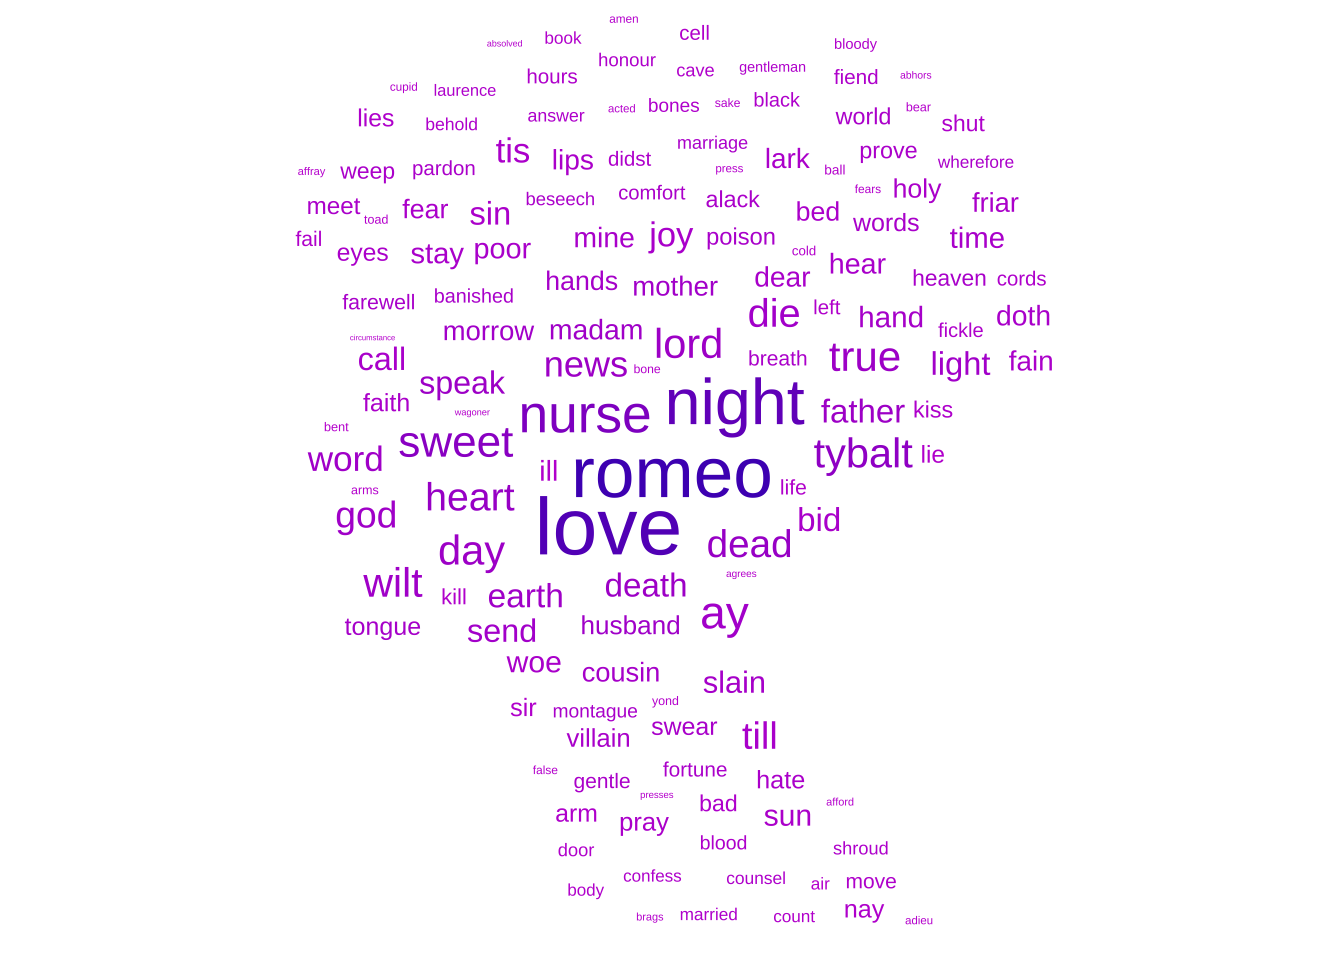
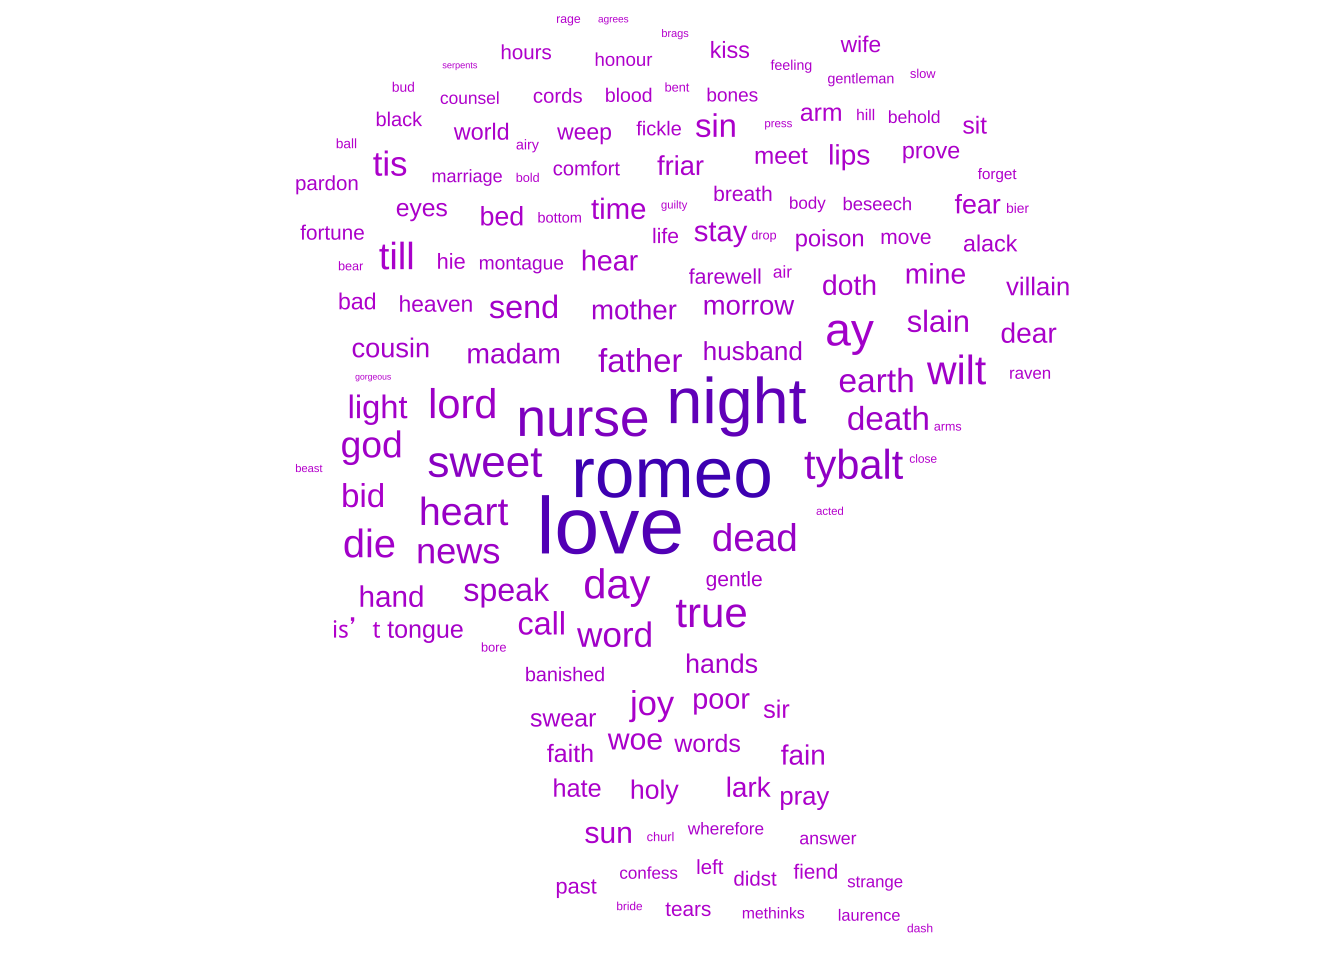
shakespeare

Changed region(s): [[0.2188, 0.0, 0.8125, 0.9688]]

diff --git a/docs/tidytuesday/shakespeare_words.html b/docs/tidytuesday/shakespeare_words.html
@@ -184,8 +184,8 @@ pre > code.sourceCode > span > a:first-child::before { text-decoration: underlin
     </ul>
   </li>
   <li class="nav-item">
-    <a class="nav-link" href="../tidytuesday/tidytuesday.html"> 
-<span class="menu-text"><strong>Tidytuesday Adventures</strong></span></a>
+    <a class="nav-link" href="../dataviz.html"> 
+<span class="menu-text"><strong>Data Viz Adventures</strong></span></a>
   </li>  
 </ul>
           </div> <!-- /navcollapse -->
@@ -234,7 +234,7 @@ pre > code.sourceCode > span > a:first-child::before { text-decoration: underlin
 </header>
 
 
-<p><strong><em>Under the mentorship of Professor Jo Hardin <a href="https://github.com/hardin47">@hardin47</a> at Pomona College. Analysis based on <a href="https://github.com/deepdk/TidyTuesday2024/tree/main/2024/week_38">@deepdk</a></em></strong></p>
+<p>This week we’re exploring dialogue in Shakespeare plays. The dataset this week comes from <a href="https://shakespeare.mit.edu">shakespeare.mit.edu</a> (via <a href="https://github.com/nrennie/shakespeare">github.com/nrennie/shakespeare</a>) which is the Web’s first edition of the Complete Works of William Shakespeare. The site has offered Shakespeare’s plays and poetry to the internet community since 1993. The analysis I will take inspiratio from is <a href="https://github.com/deepdk/TidyTuesday2024/tree/main/2024/week_38"><span class="citation" data-cites="deepdk">@deepdk</span></a></p>
 <section id="loading-relevant-libraries" class="level2">
 <h2 class="anchored" data-anchor-id="loading-relevant-libraries">Loading relevant libraries</h2>
 <div class="cell">

diff --git a/docs/tidytuesday/chess_matches.html b/docs/tidytuesday/chess_matches.html
@@ -234,7 +234,6 @@ pre > code.sourceCode > span > a:first-child::before { text-decoration: underlin
 </header>
 
 
-<p><strong><em>Under the mentorship of Professor Jo Hardin <a href="https://github.com/hardin47">@hardin47</a> at Pomona College</em></strong></p>
 <section id="packages" class="level2">
 <h2 class="anchored" data-anchor-id="packages">Packages</h2>
 <div class="cell">
